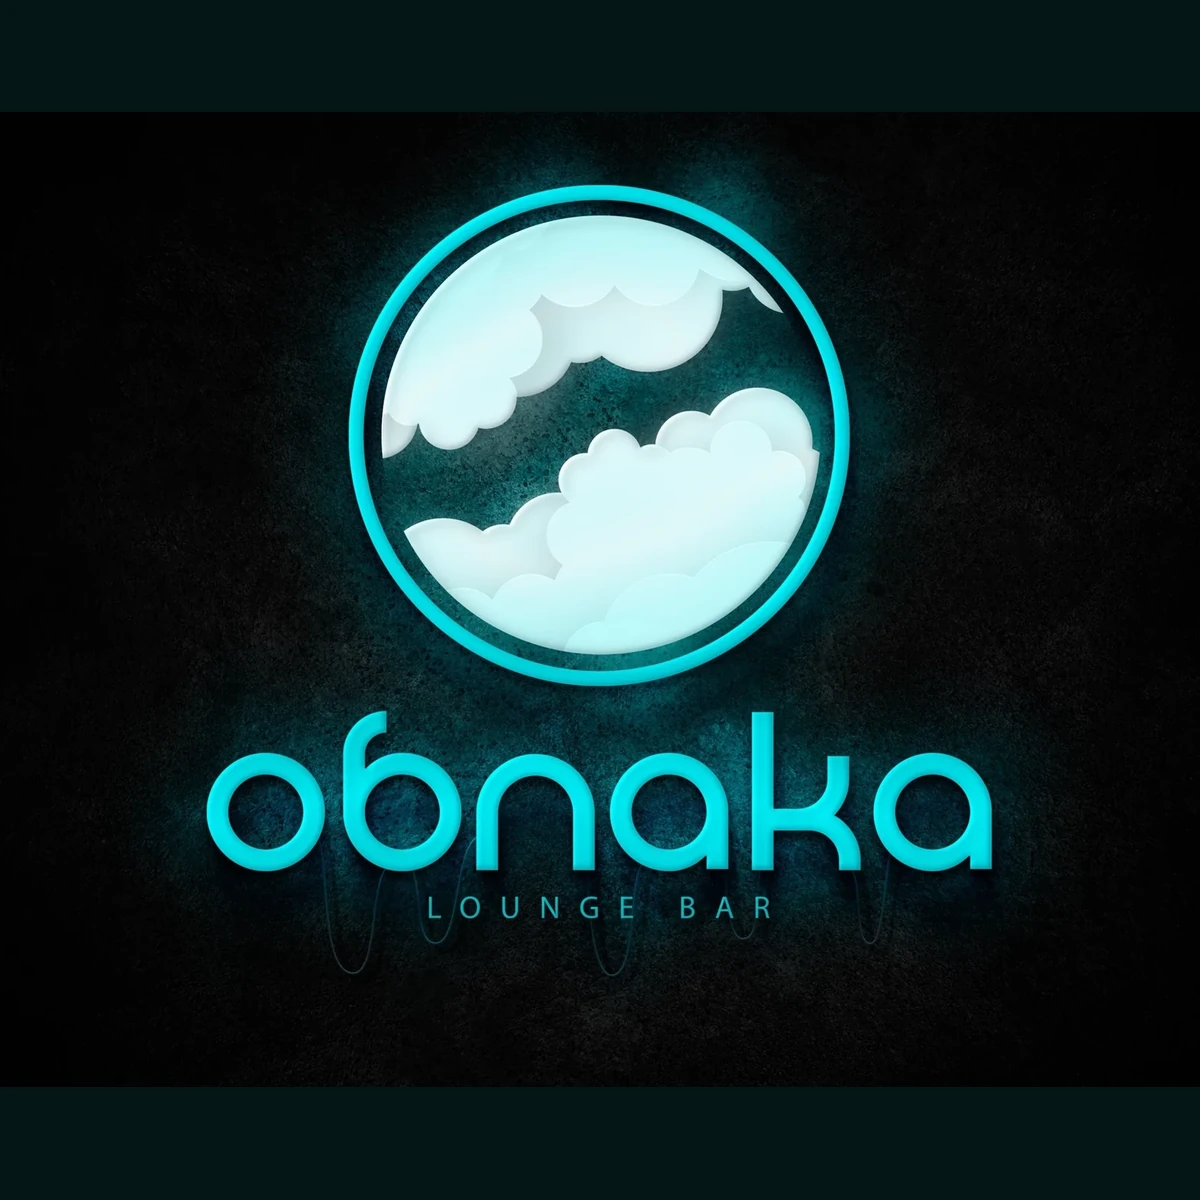
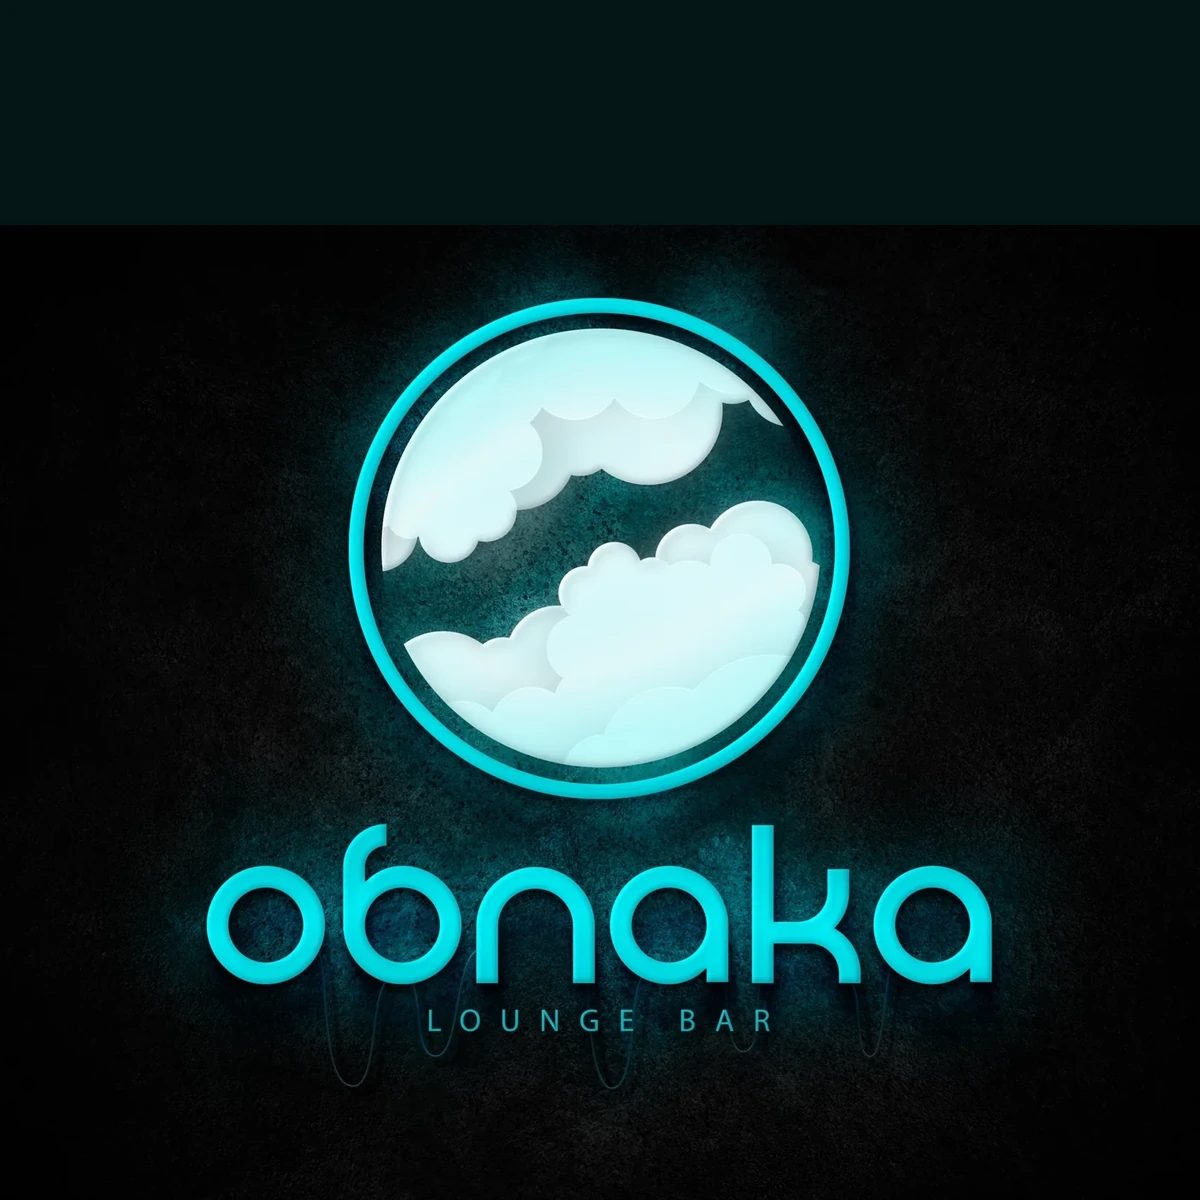
Remove colour bands between landing cards

Changed region(s): [[0.1233, 0.1233, 0.8633, 0.8942]]

diff --git a/index.html b/index.html
@@ -12,11 +12,11 @@
 <body class="start-page">
   <main class="portal" aria-label="Заведения">
     <a class="brand-card brand-card--oblaka" href="oblaka.html" data-destination="oblaka.html" aria-label="Открыть Облака Lounge Bar">
-      <img class="brand-card__fallback" src="assets/oblaka-home-card.webp?v=202608092000" alt="Облака Lounge Bar">
+      <img class="brand-card__fallback" src="assets/oblaka-home-card.webp?v=202608092015" alt="Облака Lounge Bar">
       <span class="brand-card__shade"></span>
     </a>
     <a class="brand-card brand-card--zemlya" href="zemlya.html" data-destination="zemlya.html" aria-label="Открыть Земля Grill Bar">
-      <img class="brand-card__fallback" src="assets/zemlya-home-card.webp?v=202608092000" alt="Земля Grill Bar">
+      <img class="brand-card__fallback" src="assets/zemlya-home-card.webp?v=202608092015" alt="Земля Grill Bar">
       <span class="brand-card__shade"></span>
     </a>
   </main>
